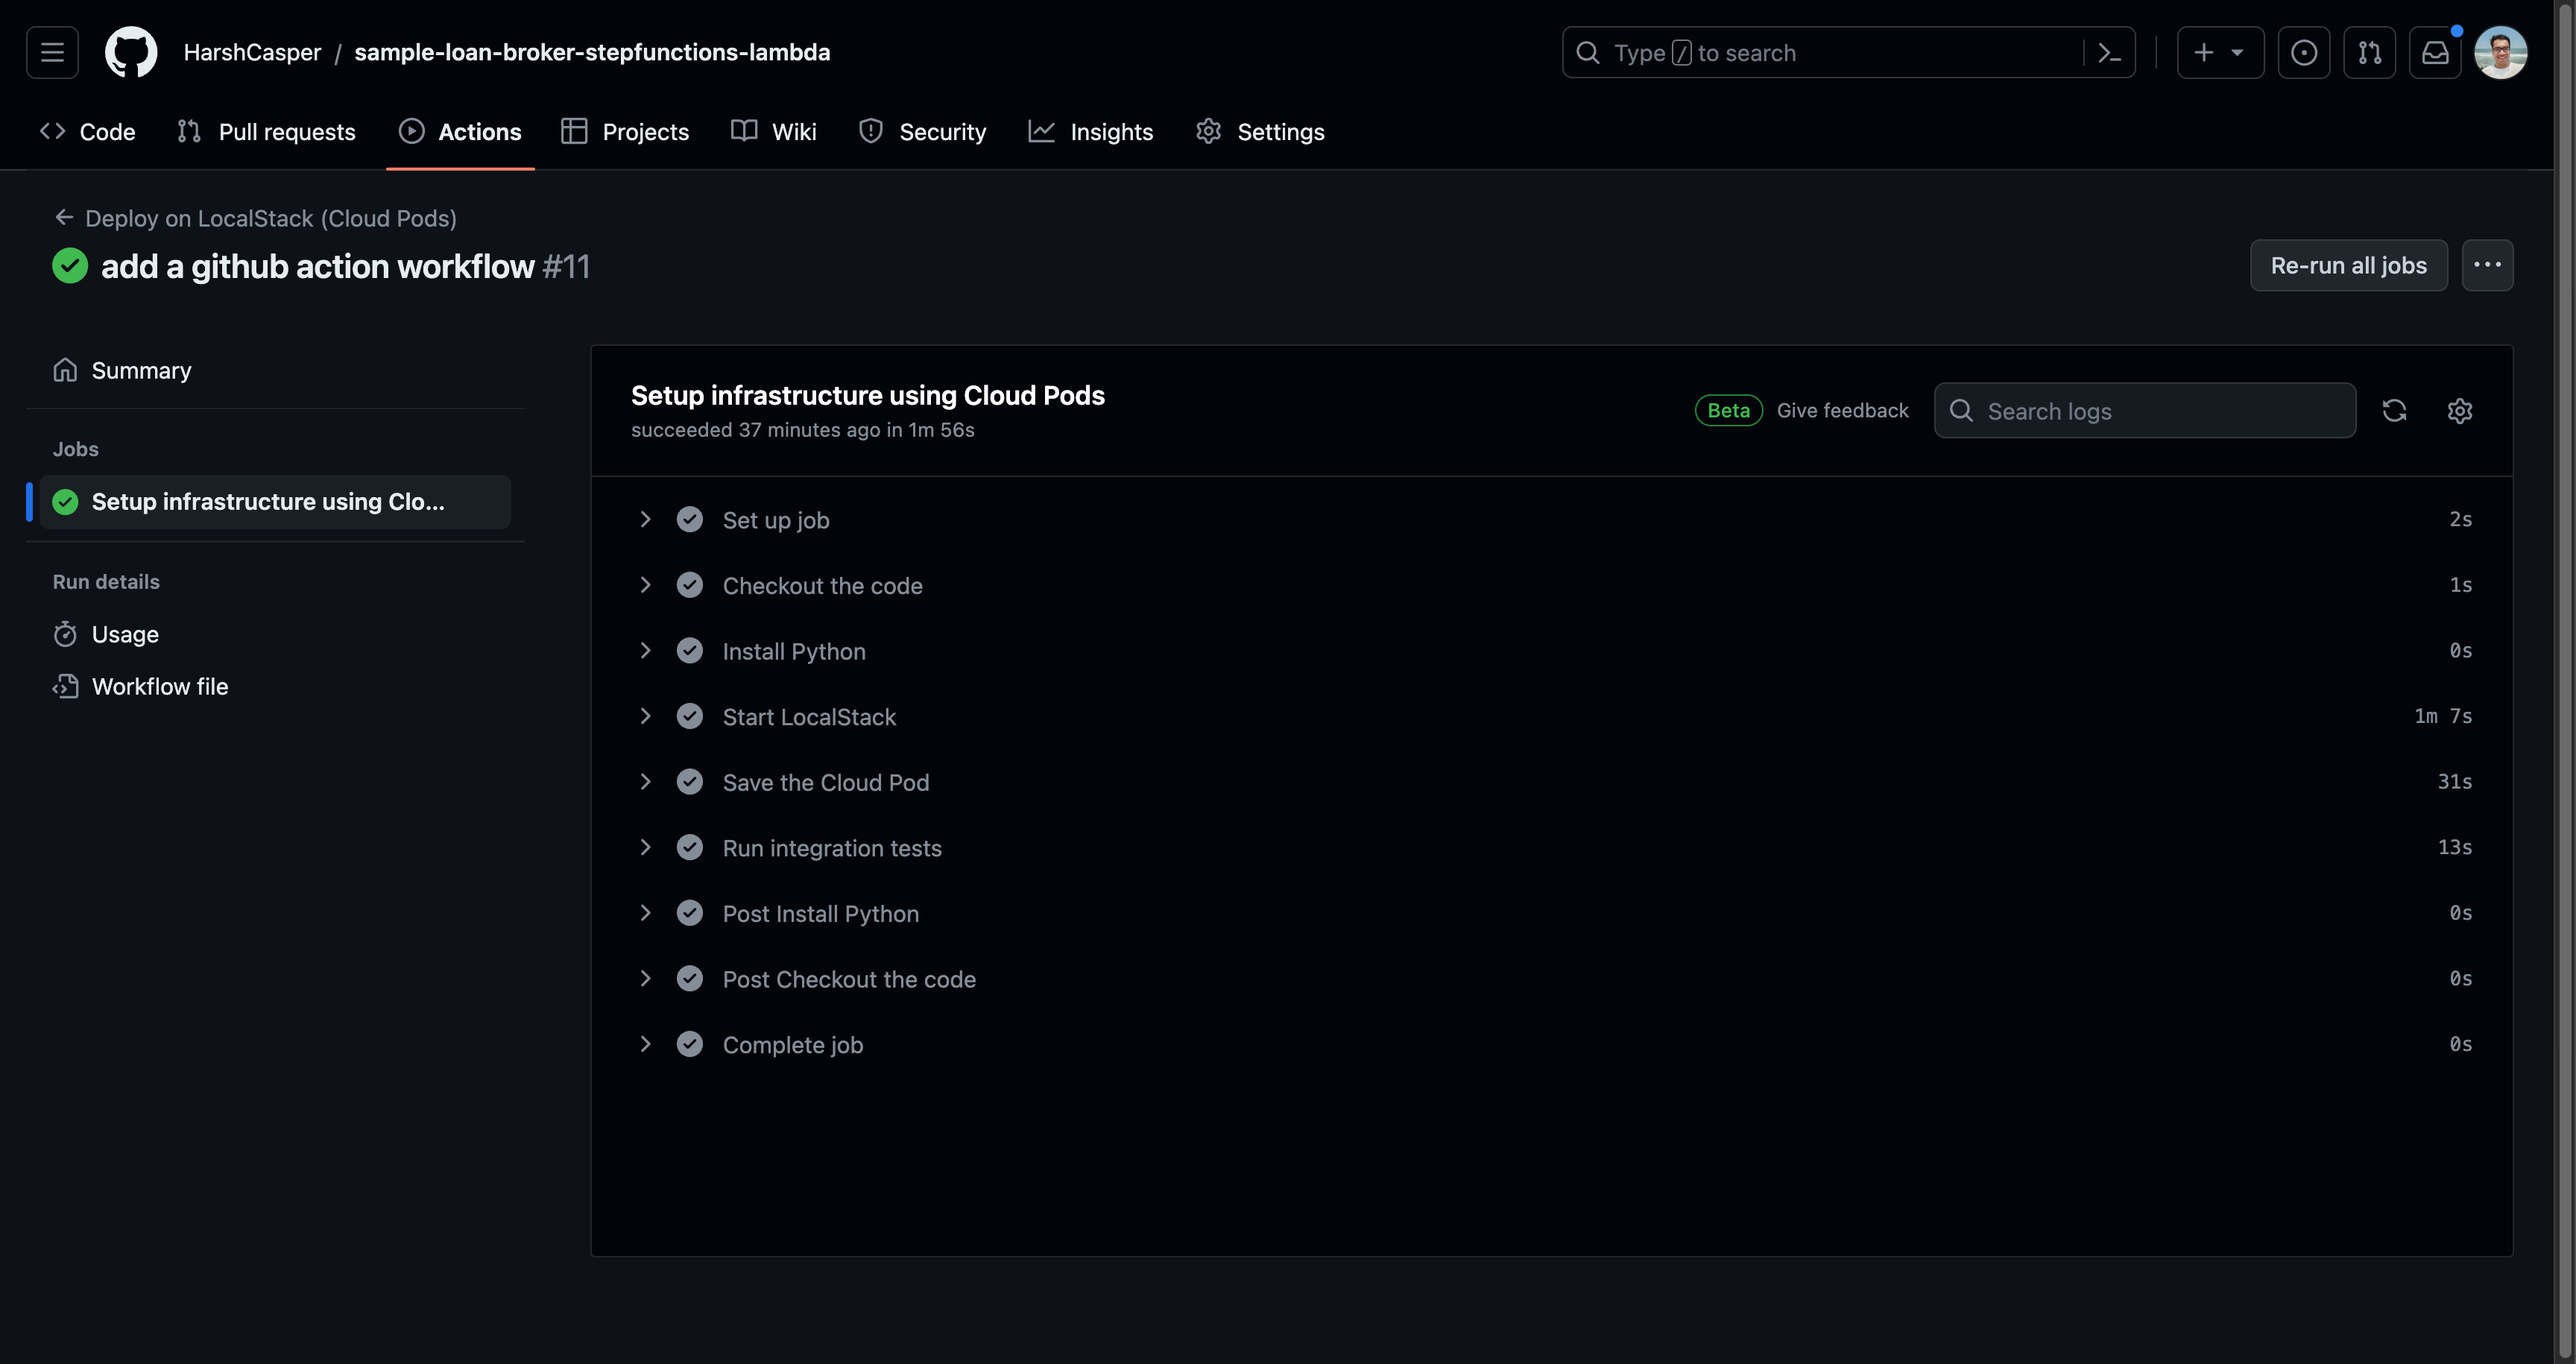
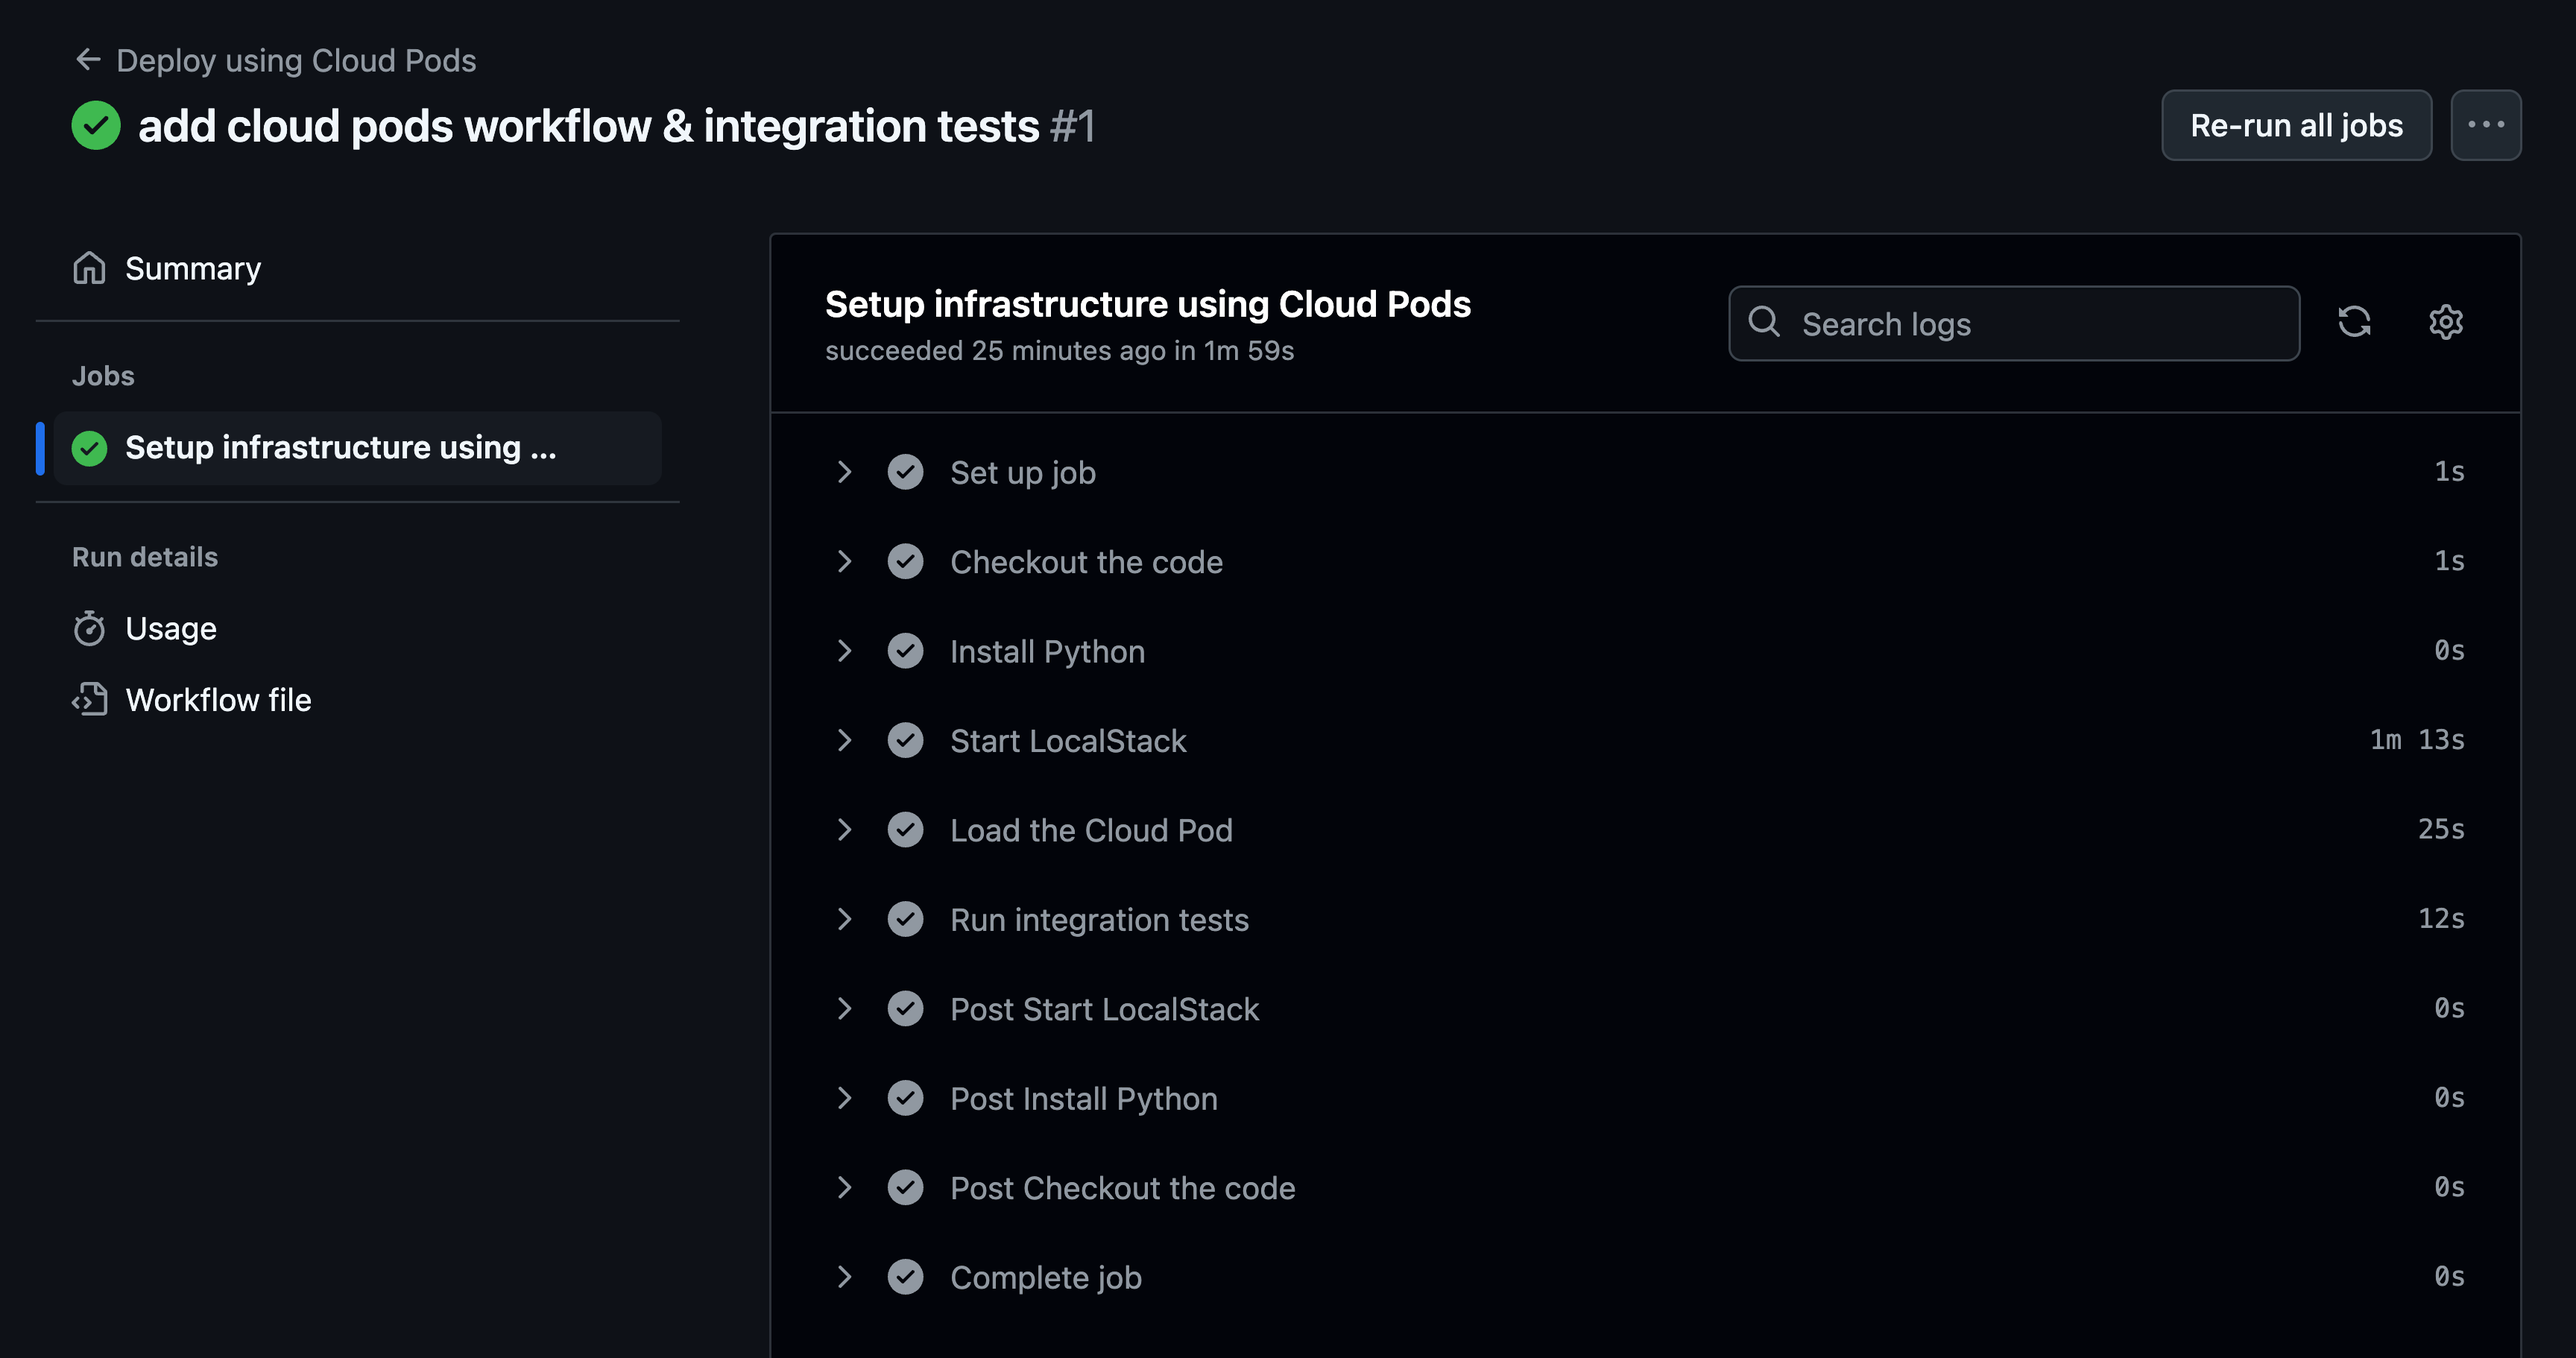
final fixes

diff --git a/content/2024-09-19-accelerate-infrastructure-testing-with-localstack-cloud-pods-github-actions/index.md b/content/2024-09-19-accelerate-infrastructure-testing-with-localstack-cloud-pods-github-actions/index.md
@@ -233,7 +233,7 @@ Now that the Cloud Pod is successfully created, you can proceed to write a simpl
 -   Start the state machine execution to get quotes from the banks after submitting a loan application.
 -   Validate the output of the state machine execution, listing the `Credit`, `Banks`, and `Quotes`.
 
-For integration testing, use the AWS SDK for Python (`boto3`) and the `pytest` framework. Create a new directory called `tests` and create a file named `test_`[`infra.py`](http://infra.py). Add the necessary imports and [`pytest` fixtures](https://docs.pytest.org/en/6.2.x/reference.html#fixtures-api):
+For integration testing, use the AWS SDK for Python (`boto3`) and the `pytest` framework. Create a new directory called `tests` and create a file named [`test_infra.py`](http://infra.py). Add the necessary imports and [`pytest` fixtures](https://docs.pytest.org/en/6.2.x/reference.html#fixtures-api):
 
 ```python
 import time
@@ -364,7 +364,7 @@ To set up the workflow:
 Add the following content to the `pods.yml` file:
 
 ```yaml
-name: Deploy on LocalStack 
+name: Deploy using Cloud Pods 
 
 on:
   push:
@@ -390,11 +390,10 @@ jobs:
 Set up the step to install Python in the runner as part of the workflow step:
 
 ```yaml
-steps:
-  - name: Install Python
-    uses: actions/setup-python@v4
-    with:
-      python-version: '3.10'
+- name: Install Python
+  uses: actions/setup-python@v4
+  with:
+    python-version: '3.10'
 ```
 
 Next, set up LocalStack in your runner using the `setup-localstack` action:
@@ -414,7 +413,7 @@ This action pulls the LocalStack Pro image (`localstack/localstack-pro:latest`) 
 Now, add the step to pull the Cloud Pod using the `LocalStack/setup-localstack/cloud-pods` action. It allows you to specify the name of the Cloud Pod and the corresponding action (`load` & `save`) to execute in the environment:
 
 ```yaml
-- name: Save the Cloud Pod 
+- name: Load the Cloud Pod 
   uses: LocalStack/setup-localstack/cloud-pods@main
   with:
     name: loan-broker-infra
@@ -477,4 +476,4 @@ Using Cloud Pods, you can boost efficiency by reducing the setup time from minut
 
 In the upcoming blog posts, we'll demonstrate how to use Cloud Pods in more unique scenarios — running end-to-end UI tests for your cloud apps, configuring distinct testing scenarios, facilitating developer onboarding and more! Stay tuned for more blogs on how LocalStack is enhancing your cloud development and testing experience.
 
-You can find the [GitHub Action workflow](https://github.com/HarshCasper/sample-loan-broker-stepfunctions-lambda/blob/main/.github/workflows/cloud-pods.yml) and [integration test](https://github.com/HarshCasper/sample-loan-broker-stepfunctions-lambda/blob/main/tests/test_infra.py) in this [GitHub repository](https://github.com/HarshCasper/sample-loan-broker-stepfunctions-lambda).
+You can find the [GitHub Action workflow](https://github.com/localstack-samples/sample-loan-broker-stepfunctions-lambda/blob/main/.github/workflows/pods.yml) and [integration test](https://github.com/localstack-samples/sample-loan-broker-stepfunctions-lambda/blob/main/tests/test_infra.py) in this [GitHub repository](https://github.com/localstack-samples/sample-loan-broker-stepfunctions-lambda).
